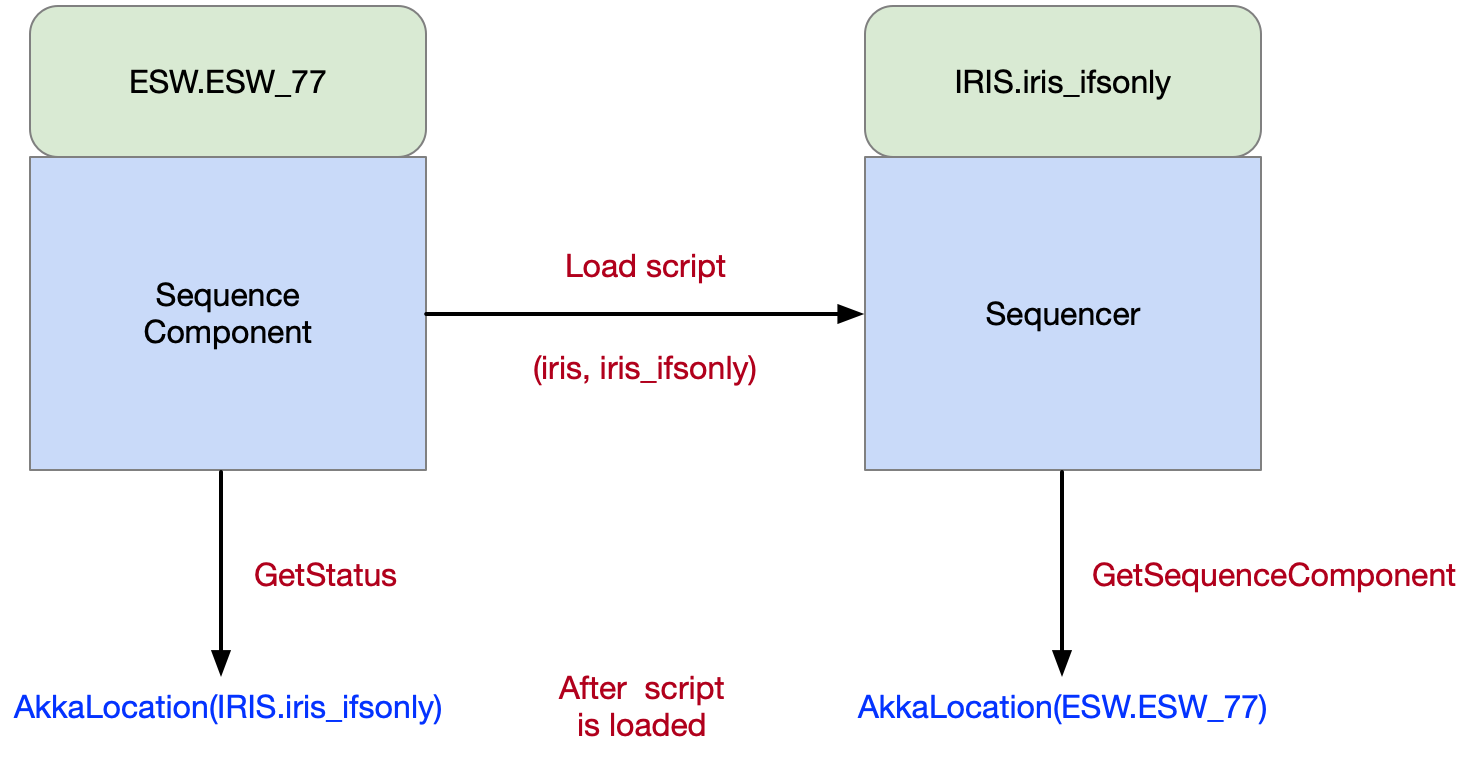
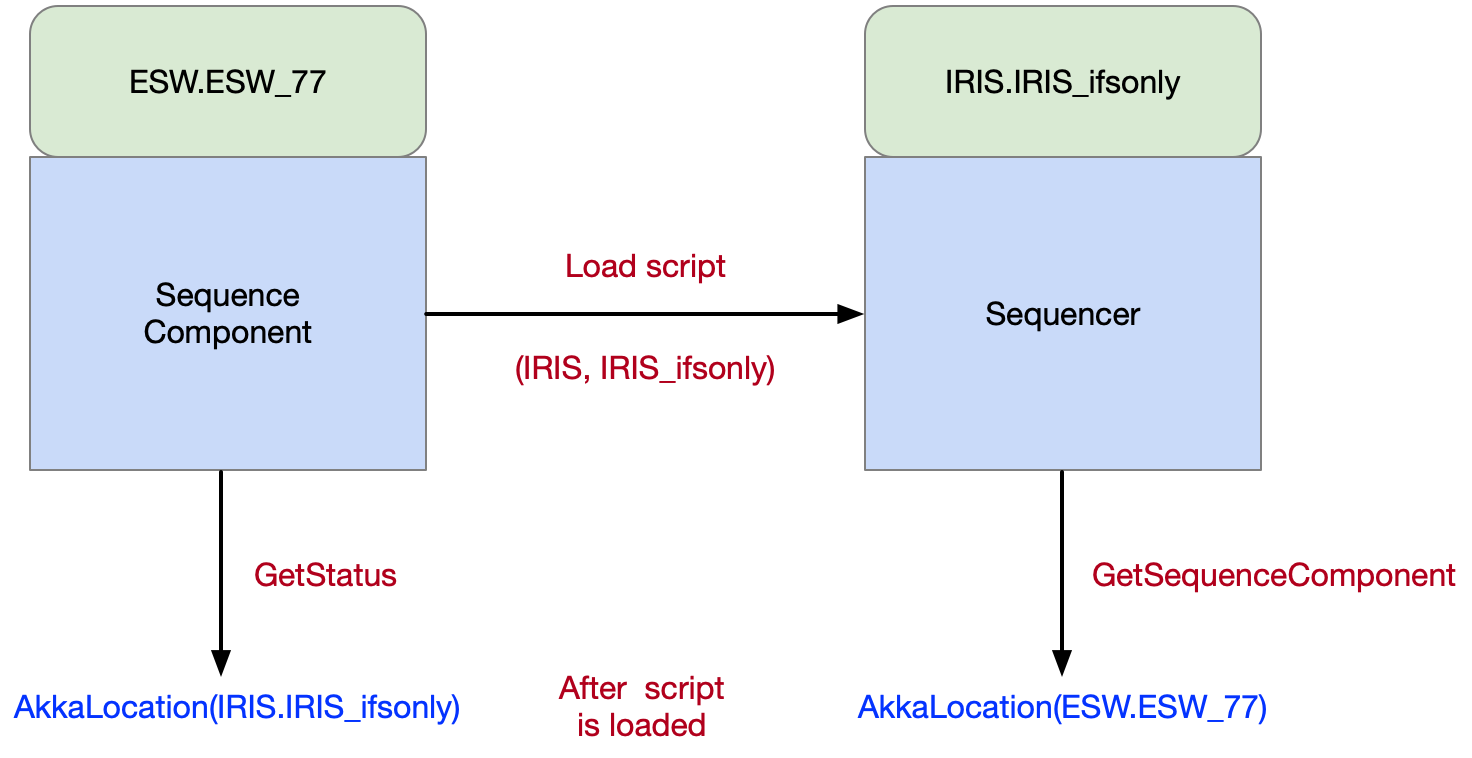
Small updates to merged ESW docs to fix capitalization of subsystems.

Changed region(s): [[0.3438, 0.4551, 0.5312, 0.5158], [0.1875, 0.9103, 0.3125, 0.971], [0.625, 0.091, 0.8125, 0.1214]]

diff --git a/docs/src/main/sequencer/seqcompsequencer/Sequencers.md b/docs/src/main/sequencer/seqcompsequencer/Sequencers.md
@@ -24,7 +24,7 @@ shown below:
 
 The subsystem indicates the subsystem defining the observing mode. 
 The `name` portion will generally be indicated by a selection in the observation planning tool. There are no restrictions on
-this name, but shorter is better. 
+this name, but shorter is better and the subsystem should be capitalized to conform with other subsystem uses. 
 
 ### Registering Sequencers in Location Service
 
@@ -37,8 +37,8 @@ started. The following table shows scenarios that may happen when the Sequence M
 
 | Sequence<br>Component Name | packageId | Observing Mode| Registered Location | Description|
 |:--------------------------:|:---------:|:-------------:|:-------------------:|:-----------|
-| esw.esw_77 | iris | iris_ifsonly |iris@iris_ifsonly | An IRIS instrument Sequencer running the IRIS script for the iris_ifsonly observing mode using the esw.esw_77 Sequence Component. |
-| esw.primary | esw |  iris_ifsonly | esw@iris_ifsonly | An ESW Sequencer running the ESW script for the iris_ifsonly observing mode using the esw.primary Sequence Component. |
+| ESW.ESW_77 | IRIS | IRIS_ifsonly |IRIS@IRIS_ifsonly | An IRIS instrument Sequencer running the IRIS script for the IRIS_ifsonly observing mode using the ESW.ESW_77 Sequence Component. |
+| ESW.primary | ESW |  IRIS_ifsonly | ESW@IRIS_ifsonly | An ESW Sequencer running the ESW script for the IRIS_ifsonly observing mode using the ESW.primary Sequence Component. |
 
 As shown above, the observing mode is the instrument name and an instrument-specific label related to observing mode features. Each instrument 
 includes its scripts inside its specific package. The packageId and observing mode are used to lookup the correct script in the script repository. 
@@ -46,7 +46,7 @@ Once the Sequencer script is loaded in a Sequence Component, the Sequencer API e
 Location of the Sequence Component allowing the Sequence Manager or other client to determine which Sequence Component is executing
 the observing mode script for a specific packageId.
 
-The figure below shows the Sequence Component ESW_77 loading the IRIS instrument script for the iris_ifsonly observing mode.
+The figure below shows the Sequence Component ESW_77 loading the IRIS instrument script for the IRIS_ifsonly observing mode.
 
 ![SequenceCompNaming](../../images/ocs/OCS-SeqCompSeqNaming.png)
 

diff --git a/docs/src/main/sequencer/scripts/scripts.md b/docs/src/main/sequencer/scripts/scripts.md
@@ -4,10 +4,10 @@ All logic in a Sequencer is implemented in Sequencer Scripts.  Scripts are writt
 Domain Specific Language (DSL) to facilitate development based on the Kotlin programming language.
 This section describes the DSL in detail.
 
-Scripts can be written in two styles: procedure-oriented and state machine-oriented.   
+Scripts can be written in two styles: handler-oriented and state machine-oriented.   
 
-As an alternate to procedural style scripting, a framework DSL has been provided to allow scripting using a 
-Finite State Machine (FSM) (still in development).  
+As an alternate to the hendler or procedural scripting style, a DSL has been provided to allow scripting using a 
+Finite State Machine (FSM) model.
 
 @@ toc { depth=2 }
 

diff --git a/docs/src/main/sequencer/seqcompsequencer/SeqComp.md b/docs/src/main/sequencer/seqcompsequencer/SeqComp.md
@@ -14,8 +14,10 @@ The following table describes the registration of a Sequence Component in the Lo
 
 | Subsystem | Name | Registered Location |
 |:---------:|:----:|:-------------------:|
-| esw | (none) | esw.esw_77 |
-| ese | primary |  esw.primary |
+| ESW | (none) | ESW.ESW_77 |
+| ESW | primary |  ESW.primary |
+
+Note that CSW always capitalizes a subsystem when it is displayed. Arguments can be entered as lowercase.
 
 The Sequence Component provides framework code to support the loading and unloading of Scripts and a few other 
 useful capabilities.

diff --git a/docs/src/main/sequencer/scripts/dsl/constructs/define-script.md b/docs/src/main/sequencer/scripts/dsl/constructs/define-script.md
@@ -2,8 +2,8 @@
  
 There are 3 variations of Sequencer Scripts. These variations are based the way the Script gets executed. The variations are:
 
-- Handler Oriented Script
-- State Machine Oriented Script (FSM Script)
+- Handler-Oriented Script
+- State Machine-Oriented Script (FSM Script)
 - Reusable Script
 
 ## Handler-Oriented Script
